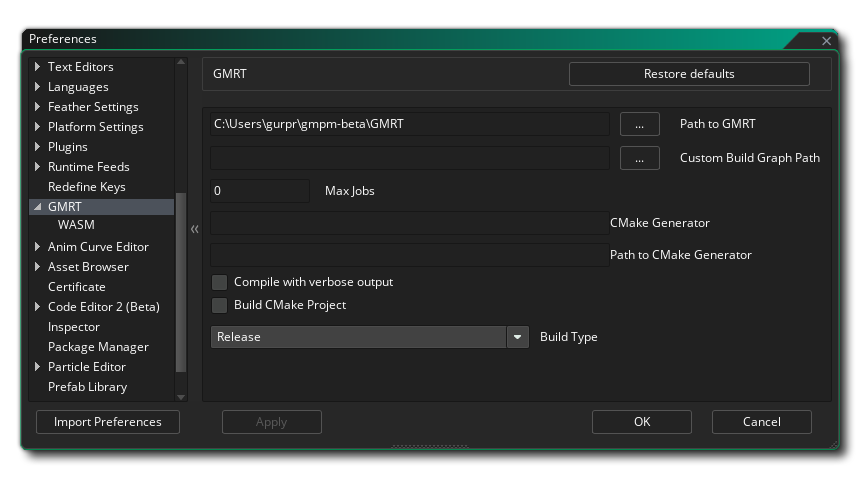
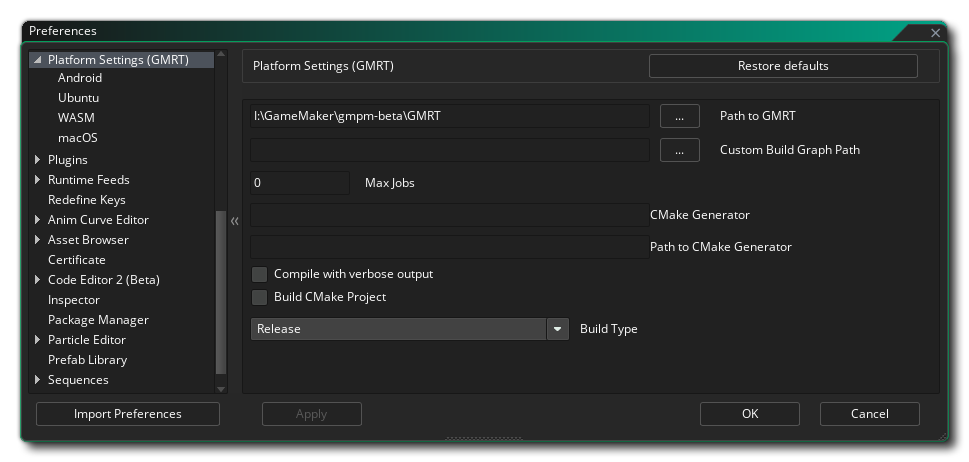
docs(feature): Move GMRT preferences under Platform Settings and rename it https://github.com/YoYoGames/YoYoStudio/issues/12949

diff --git a/Manual/contents/Setting_Up_And_Version_Information/IDE_Preferences/GMRT_Preferences.htm b/Manual/contents/Setting_Up_And_Version_Information/IDE_Preferences/GMRT_Preferences.htm
@@ -3,7 +3,7 @@
 <html xmlns="http://www.w3.org/1999/xhtml">
 <head>
   <meta http-equiv="Content-Type" content="text/html; charset=utf-8" />
-  <title>GMRT Preferences</title>
+  <title>Platform Settings (GMRT)</title>
   <meta name="generator" content="Adobe RoboHelp 2022" />
   <link rel="stylesheet" href="../../assets/css/default.css" type="text/css" />
   <script src="../../assets/scripts/main_script.js" type="module"></script>
@@ -15,12 +15,10 @@
 </head>
 <body>
   <!--<div class="body-scroll" style="top: 150px;">-->
-  <h1><span data-field="title" data-format="default">GMRT Preferences</span></h1>
+  <h1><span data-field="title" data-format="default">Platform Settings (GMRT)</span></h1>
   <p><img class="center" src="../../assets/Images/Setup_And_Version/Preferences/GMRT_Prefs.png" />This section contains preferences for <a data-xref="{title}" href="../../Settings/Runner_Details/GMRT_(GameMaker_Runtime).htm">GMRT (GameMaker Runtime)</a>:</p>
   <ul class="colour">
     <li><strong>Path to GMRT</strong>: This should be where the GMRT <a href="Package_Manager_Preferences.htm">packages</a> are installed.</li>
-    <li><strong>Custom Build Graph Path</strong>: </li>
-    <li><strong>Max Jobs</strong>: </li>
     <li><strong>Path to ...</strong>: The rest of the path options are optional and provided in case you want to use your own tools for GMRT compilation. GMRT packages should already include all of this and you will not need to change these options unless you specifically want to.
       <ul>
         <li><strong>CMake generator</strong>: Specifies which CMake generator should be used when building a project. By default this is set to Ninja, but can be changed to &quot;Visual Studio 17&quot; to build a VS 2022 project.</li>
@@ -28,17 +26,22 @@
       </ul>
     </li>
     <li><strong>Compile with verbose output</strong>: This enables detailed logging for the compiler output which can help debug issues when submitting reports. This may slow down compilation.</li>
-    <li><strong>Build CMake Project</strong>: </li>
     <li><strong>Build Type</strong>: The build of GMRT to use.</li>
   </ul>
-  <p>The GMRT section will also contain subsections for each <a href="../Platform_Preferences.htm">platform</a> that needs to have different settings for GMRT compared to the GMS2 runtime settings (found under <a data-xref="{title}" href="../Platform_Preferences.htm">Platform Preferences</a>). Currently it contains a section for WASM (<a href="../Platform_Preferences/GX_Games_Preferences.htm">GX.games</a>).</p>
+  <p>The GMRT section will also contain subsections for each <a href="../Platform_Preferences.htm">platform</a> that needs to have different settings for GMRT compared to the GMS2 runtime settings (found under <a data-xref="{title}" href="../Platform_Preferences.htm">Platform Settings (GMS2)</a>). Currently this contains sections for:</p>
+  <ul class="colour">
+    <li><a href="../Platform_Preferences/Android.htm">Android</a></li>
+    <li>Ubuntu</li>
+    <li>WASM (<a href="../Platform_Preferences/GX_Games_Preferences.htm">GX.games</a>)</li>
+    <li><a href="../Platform_Preferences/macOS.htm">macOS</a></li>
+  </ul>
   <p> </p>
   <p> </p>
   <div class="footer">
     <div class="buttons">
       <div class="clear">
         <div style="float:left">Back: <a href="../IDE_Preferences.htm">IDE Preferences</a></div>
-        <div style="float:right">Next: <a data-xref="{title}" href="Package_Manager_Preferences.htm">Package Manager Preferences</a></div>
+        <div style="float:right">Next: <a data-xref="{title}" href="../Error_Reporting.htm">Reporting Errors</a></div>
       </div>
     </div>
     <h5><span data-keyref="Copyright Notice">© Copyright YoYo Games Ltd. 2026 All Rights Reserved</span></h5>

diff --git a/Manual/contents/Setting_Up_And_Version_Information/Platform_Preferences.htm b/Manual/contents/Setting_Up_And_Version_Information/Platform_Preferences.htm
@@ -3,7 +3,7 @@
 <html xmlns="http://www.w3.org/1999/xhtml">
 <head>
   <meta http-equiv="Content-Type" content="text/html; charset=utf-8" />
-  <title>Platform Preferences</title>
+  <title>Platform Settings (GMS2)</title>
   <meta name="generator" content="Adobe RoboHelp 2022" />
   <link rel="stylesheet" href="../assets/css/default.css" type="text/css" />
   <script src="../assets/scripts/main_script.js" type="module"></script>
@@ -14,8 +14,9 @@
 </head>
 <body>
   <!--<div class="body-scroll" style="top: 150px;">-->
-  <h1><span data-field="title" data-format="default">Platform Preferences</span></h1>
-  <p>This section of the manual covers the different platform specific <strong>Preferences </strong>that need to be set up before you can compile your games to certain targets. These generally only need set up once to start with (although future updates to the <a href="IDE_Preferences/Runtime_Feed_Preferences.htm">runtimes</a> may require you to change certain things, but these will be mentioned in the <a href="Release_Notes.htm">Release Notes</a>) and are used to point to any <a class="glossterm" data-glossterm="SDK" href="#">SDK</a>s that are required and set basic <a class="glossterm" data-glossterm="Compiling" href="#">Compiling</a> options for how you want <span data-keyref="GameMaker Name">GameMaker</span> to compile your game projects for any given platform. Note that the platforms available will depend on the <a href="GMS2_Version_Information.htm">Licence</a> that you have and not all of them may be available.</p>
+  <h1><span data-field="title" data-format="default">Platform Settings (GMS2)</span></h1>
+  <p>This section of the manual covers the different platform-specific <strong>Preferences </strong>that need to be set up before you can compile your games to certain targets, specifically for the current <strong>GMS2</strong> runtime (as opposed to <a href="IDE_Preferences/GMRT_Preferences.htm">GMRT</a>).</p>
+  <p>These generally only need set up once to start with (although future updates to the <a href="IDE_Preferences/Runtime_Feed_Preferences.htm">runtimes</a> may require you to change certain things, but these will be mentioned in the <a href="Release_Notes.htm">Release Notes</a>) and are used to point to any <a class="glossterm" data-glossterm="SDK" href="#">SDK</a>s that are required and set basic <a class="glossterm" data-glossterm="Compiling" href="#">Compiling</a> options for how you want <span data-keyref="GameMaker Name">GameMaker</span> to compile your game projects for any given platform. Note that the platforms available will depend on the <a href="GMS2_Version_Information.htm">Licence</a> that you have and not all of them may be available.</p>
   <p>Below is a list of all the available target platforms for standard licences:</p>
   <ul class="colour">
     <li><a href="Platform_Preferences/Android.htm">Android</a></li>
@@ -35,7 +36,7 @@
     <div class="buttons">
       <div class="clear">
         <div style="float:left">Back: <a href="../The_IDE/Preferences_And_Information/Preferences_And_Features.htm">IDE Preferences &amp; Features</a></div>
-        <div style="float:right">Next: <a data-xref="{title}" href="Error_Reporting.htm">Reporting Errors</a></div>
+        <div style="float:right">Next: <a data-xref="{title}" href="IDE_Preferences/GMRT_Preferences.htm">Platform Settings (GMRT)</a></div>
       </div>
     </div>
     <h5><span data-keyref="Copyright Notice">© Copyright YoYo Games Ltd. 2026 All Rights Reserved</span></h5>

diff --git a/Manual/contents/Settings/Game_Options/Ubuntu.htm b/Manual/contents/Settings/Game_Options/Ubuntu.htm
@@ -19,7 +19,6 @@
   <p> </p>
   <h2>General</h2>
   <p><img alt="Ubuntu General Options" class="center" src="../../assets/Images/Settings/Ubuntu_General_Options.png" />This tab is where you set the name of your game as it is to be displayed while running, and can also supply a contact email and a description (short and long), as well as a URL for the homepage of the game or the developer.</p>
-  <p>Here you also have the option is for enabling <strong>Steam </strong>in your game. If you enable this option, make sure you have the Steamworks SDK installed (see <a href="../../Setting_Up_And_Version_Information/Platform_Preferences/Steam.htm">here</a>), and that you have added the <strong>Steam app ID</strong> into the <a href="../Game_Options.htm">General Options</a> for the game.</p>
   <p>Finally you have the option to <strong>Disable file system sandbox</strong>. Checking this will disable the <span data-keyref="GameMaker Name">GameMaker</span> sandboxing for saving and loading files, permitting your games to access files from anywhere on the system running the game. This option is unchecked by default, as we recommend that you maintain the <span data-keyref="GameMaker Name">GameMaker</span> sandbox for files on all systems and when checked, some save/load areas may still not be available depending on the OS-level permissions. For more information on the sandbox, please see the pages on the <span data-keyref="GameMaker Name">GameMaker</span> <a href="../../Additional_Information/The_File_System.htm">File System</a>.</p>
   <p> </p>
   <h2>Graphics</h2>

diff --git a/Manual/contents/The_IDE/Preferences_And_Information/Preferences_And_Features.htm b/Manual/contents/The_IDE/Preferences_And_Information/Preferences_And_Features.htm
@@ -20,6 +20,7 @@
   <ul class="colour">
     <li><a data-xref="{title}" href="../../Setting_Up_And_Version_Information/IDE_Preferences.htm">IDE Preferences</a></li>
     <li><a data-xref="{title}" href="../../Setting_Up_And_Version_Information/Platform_Preferences.htm">Platform Preferences</a></li>
+    <li><a data-xref="{title}" href="../../Setting_Up_And_Version_Information/IDE_Preferences/GMRT_Preferences.htm">GMRT Preferences</a></li>
     <li><a data-xref="{title}" href="../../Setting_Up_And_Version_Information/Error_Reporting.htm">Reporting Errors</a></li>
     <li><a data-xref="{title}" href="../../IDE_Tools/Compiling_&amp;_Runtime.htm">Compiling &amp; Running</a></li>
   </ul>

diff --git a/Manual/contents/Setting_Up_And_Version_Information/IDE_Preferences.htm b/Manual/contents/Setting_Up_And_Version_Information/IDE_Preferences.htm
@@ -61,7 +61,6 @@
     <li><a href="IDE_Preferences/Particle_Editor_Preferences.htm">Particle Editor</a></li>
     <li><a data-xref="{title}" href="IDE_Preferences/General/Prefab_Library_Preferences.htm">Prefab Library Preferences</a></li>
     <li><a href="IDE_Preferences/Sequences_Preferences.htm">Sequences Editor</a></li>
-    <li><a data-xref="{title}" href="IDE_Preferences/GMRT_Preferences.htm">GMRT Preferences</a></li>
     <li><a data-xref="{title}" href="IDE_Preferences/Package_Manager_Preferences.htm">Package Manager Preferences</a></li>
   </ul>
   <p> </p>

diff --git a/Manual/contents/Setting_Up_And_Version_Information/IDE_Preferences/Sequences_Preferences.htm b/Manual/contents/Setting_Up_And_Version_Information/IDE_Preferences/Sequences_Preferences.htm
@@ -57,7 +57,7 @@
     <div class="buttons">
       <div class="clear">
         <div style="float:left">Back: <a href="../IDE_Preferences.htm">IDE Preferences</a></div>
-        <div style="float:right">Next: <a data-xref="{title}" href="GMRT_Preferences.htm">GMRT Preferences</a></div>
+        <div style="float:right">Next: <a data-xref="{title}" href="Package_Manager_Preferences.htm">Package Manager Preferences</a></div>
       </div>
     </div>
     <h5><span data-keyref="Copyright Notice">© Copyright YoYo Games Ltd. 2026 All Rights Reserved</span></h5>
